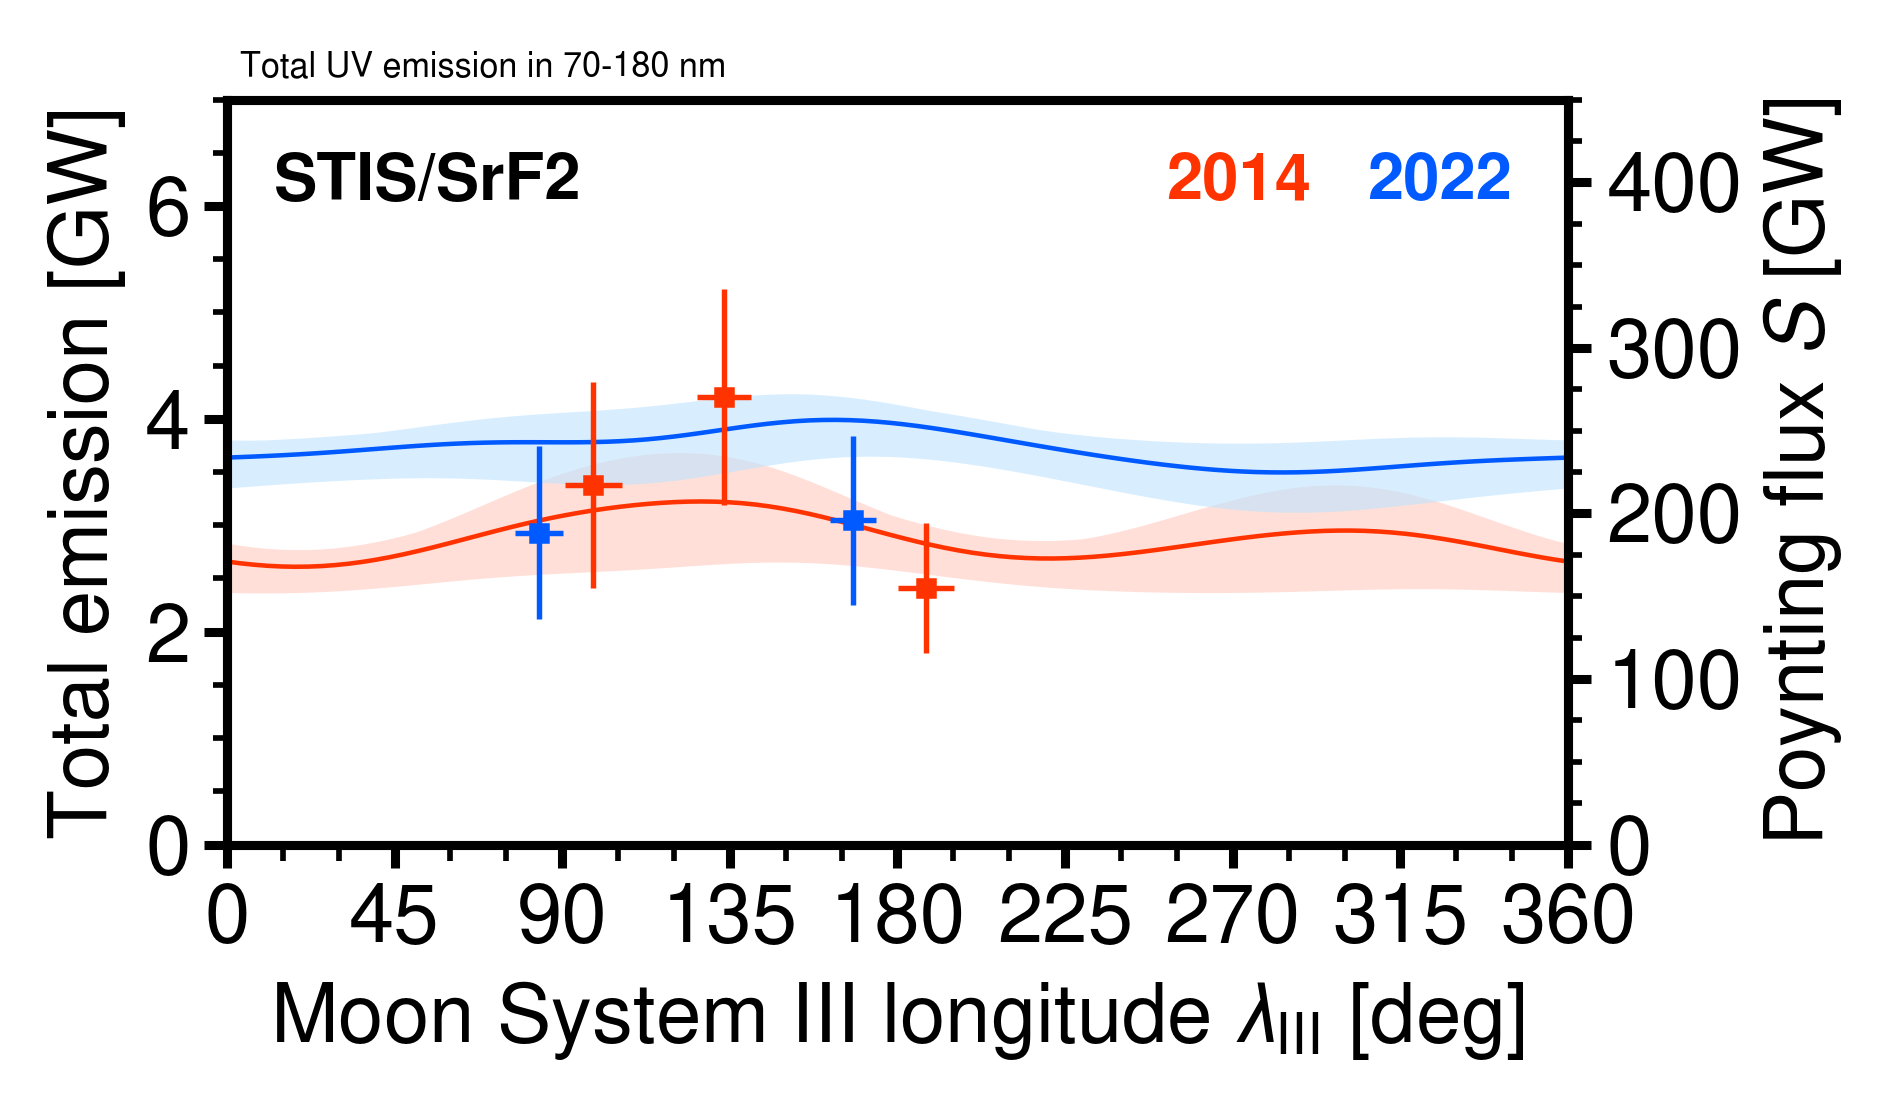
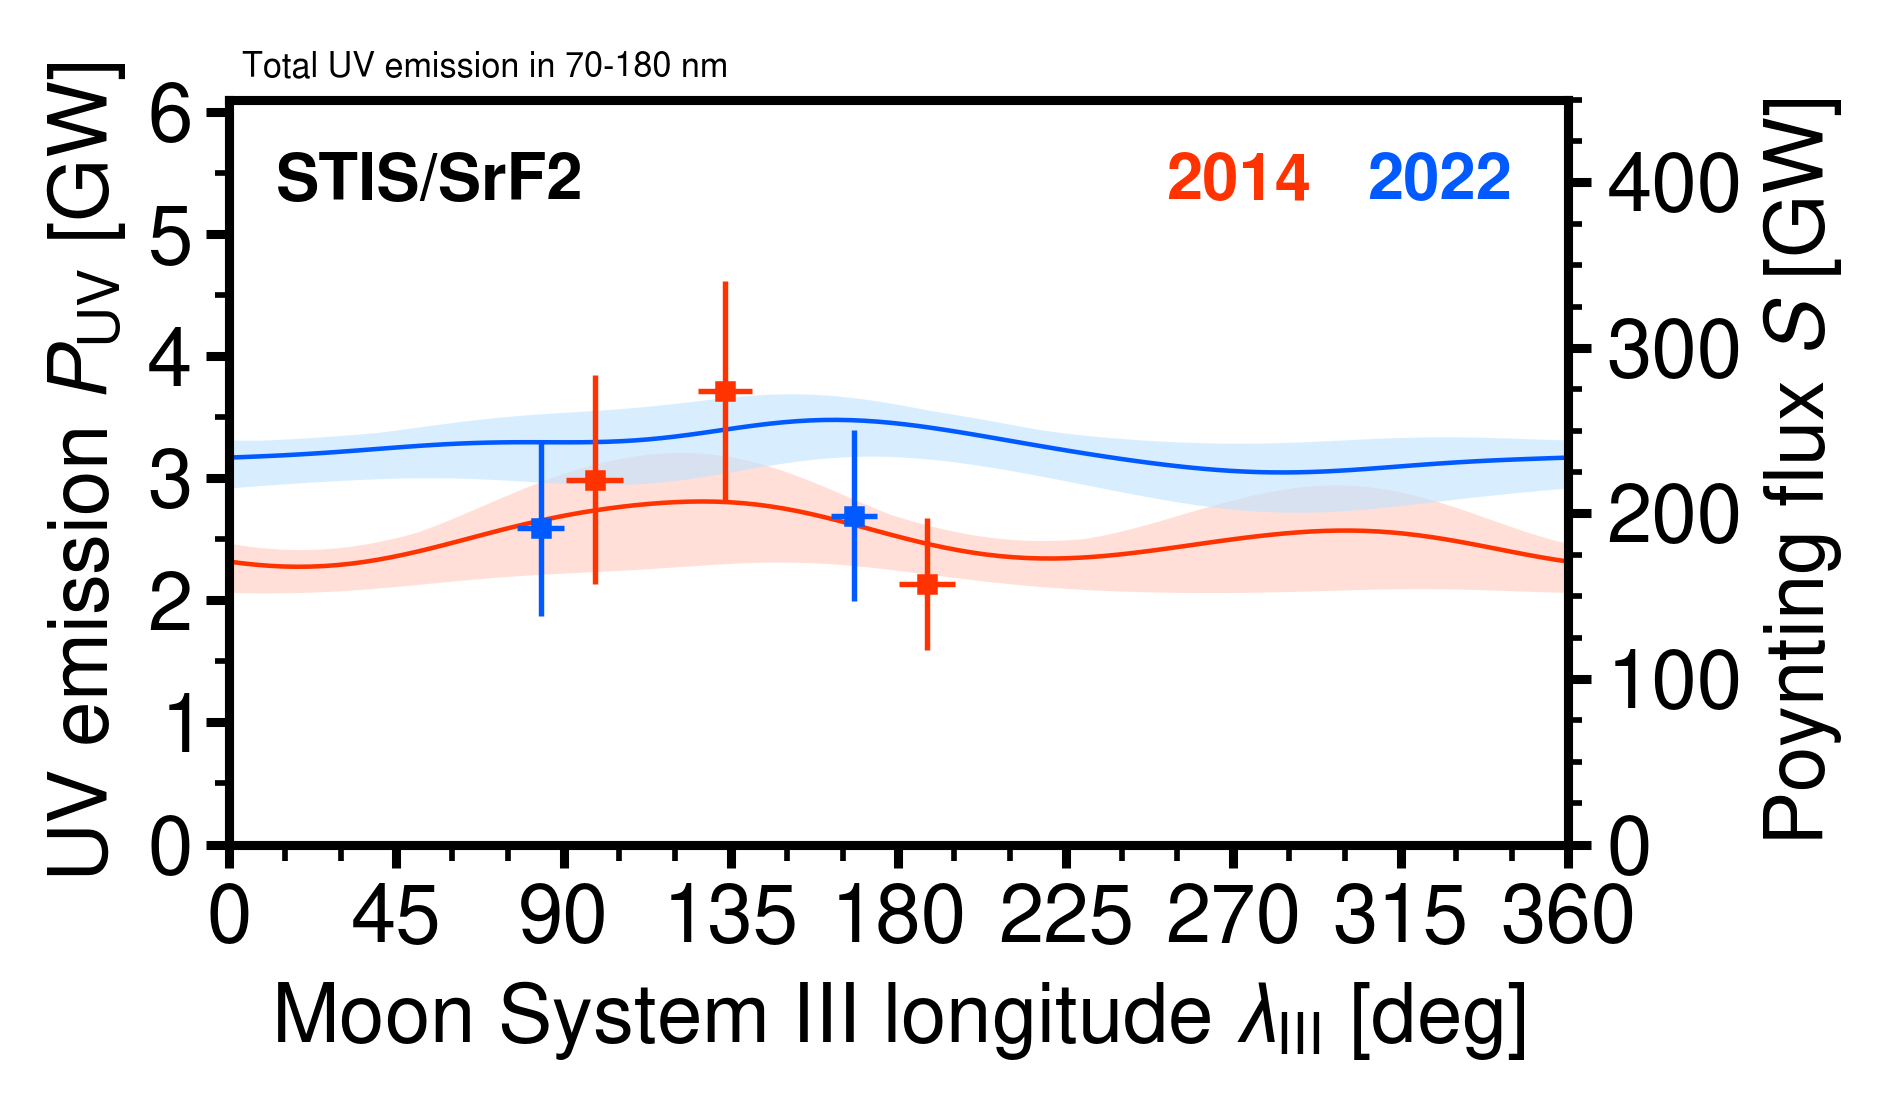
Fig 3 adjusted: aspect ratio.

diff --git a/F25SRF2.py b/F25SRF2.py
@@ -267,32 +267,39 @@ def EP_CALC(HSTUTC, B_kR, CR):
 def EP_CALC2(B_kR):
     # Assumed: 10 kR = 1 mW m-2 electron energy flux (Gustin+2012)
     # Assumed: radius of EFP = 300 km on Jupiter (Moirano+2021)
+
+    # Count rate
+    Ct_convert = 1/4523     # Gustin+2012 CR=2.5
+    Ct = Ct_convert*B_kR
+    Ct2Flux = 400*1E-3      # W m-2 (count s-1)-1
+
     Rf = 300*1E+3   # radius of EFP [m]
-    EP_E = B_kR * 0.1 * np.pi * (Rf**2) * 1E-3      # [W]
+    EP_E = B_kR*(4391/4523) * 0.1 * np.pi * (Rf**2) * 1E-3      # [W]
+    EP_E = Ct*Ct2Flux*np.pi*(Rf**2)      # [W]
 
     return EP_E
 
 
 # Plot (3)
 fontsize = 18
-fig, ax = plt.subplots(figsize=(5.8, 3.4), dpi=326)
+fig, ax = plt.subplots(figsize=(5.5, 3.4), dpi=326)
 ax.set_zorder(1)
 ax.patch.set_visible(False)  # prevents ax1 from hiding ax2
 fig.tight_layout()
 # ax.set_title('FUV Power (70-180 nm)', fontsize=fontsize, weight='bold')
 ax.tick_params(axis='both', labelsize=fontsize)
 ax.set_xlim(0, 360)
-ax.set_ylim(0, 7)
+ax.set_ylim(0, 6.1)
 ax.set_xticks(np.arange(0, 361, 45))
 ax.set_xticklabels(np.arange(0, 361, 45), fontsize=fontsize)
 ax.xaxis.set_minor_locator(AutoMinorLocator(3))  # minor ticks
-ax.set_yticks(np.arange(0, 7, 2))
+ax.set_yticks(np.arange(0, 7, 1))
 # ax.set_yticklabels(np.arange(0, 23, 5), fontsize=fontsize)
-ax.yaxis.set_minor_locator(AutoMinorLocator(4))  # minor ticks
+ax.yaxis.set_minor_locator(AutoMinorLocator(2))  # minor ticks
 ax.set_xlabel(
     r'Moon System III longitude $\lambda_{\rm III}$ [deg]', fontsize=fontsize)
-ax.set_ylabel('Total emission [GW]', fontsize=fontsize)
-ax.text(0.01, 1.020, r'Total UV emission in 70-180 nm',
+ax.set_ylabel(r'UV emission $P_{\rm UV}$ [GW]', fontsize=fontsize)
+ax.text(0.01, 1.020, r'Total UV emission in 70-180 nm (North)',
         color='k',
         horizontalalignment='left',
         verticalalignment='bottom',
@@ -322,11 +329,11 @@ ax.text(0.85, 0.93, '2022',
 
 ax2 = ax.twinx()
 ax2.tick_params(axis='both', labelsize=fontsize)
-ax2.set_ylim(0, 450)
-ax2.set_yticks(np.arange(0, 450, 100))
+ax2.set_ylim(0, 225)
+ax2.set_yticks(np.arange(0, 225, 50))
 # ax2.set_yticklabels(np.arange(0, 101, 25), fontsize=fontsize)
-ax2.yaxis.set_minor_locator(AutoMinorLocator(4))  # minor ticks
-ax2.set_ylabel(r'Poynting flux $S$ [GW]', fontsize=fontsize)
+ax2.yaxis.set_minor_locator(AutoMinorLocator(2))  # minor ticks
+ax2.set_ylabel(r'Poynting flux $S_{\rm N}$ [GW]', fontsize=fontsize)
 
 # OBSERVED POWER
 cud4_N = [cud4[0], cud4[2], cud4[3], cud4[5], cud4[7]]
@@ -390,6 +397,8 @@ pwr_22 = np.loadtxt('data/Poyntingflux/PY_2022_R4.txt')
 
 pwr_14[1, :] *= 1E-9    # [GW]
 pwr_22[1, :] *= 1E-9    # [GW]
+pwr_14[1, :] *= 0.5     # Northern hemisphere [GW]
+pwr_22[1, :] *= 0.5     # Northern hemisphere [GW]
 print('Average S 14 & 22 [GW]', np.average(
     pwr_14[1, :]), np.average(pwr_22[1, :]),)
 
@@ -406,6 +415,8 @@ for i in range(12):
     pwr_22_1 = np.loadtxt('data/Poyntingflux/PY_2022_R4_edge_'+str(i)+'.txt')
     pwr_14_arr[i, :] = pwr_14_1[1, :]*1E-9   # [GW]
     pwr_22_arr[i, :] = pwr_22_1[1, :]*1E-9   # [GW]
+    pwr_14_arr[i, :] *= 0.5   # Northern hemisphere [GW]
+    pwr_22_arr[i, :] *= 0.5   # Northerm hemisphere [GW]
 ax2.fill_between(x=pwr_14[0, :],
                  y1=pwr_14_arr.max(axis=0),
                  y2=pwr_14_arr.min(axis=0),
@@ -423,5 +434,5 @@ ax2.fill_between(x=pwr_22[0, :],
 
 fig.tight_layout()
 
-plt.savefig('Total_power_CR5.png')
+plt.savefig('Total_power_CR6.png')
 plt.show()
